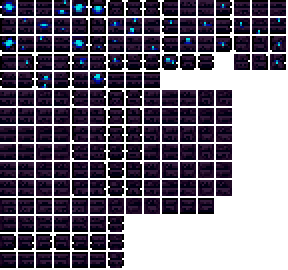
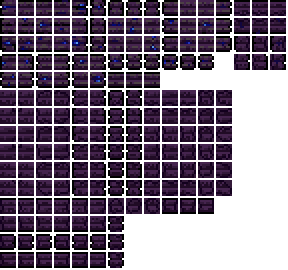
TeleportDoor

Changed region(s): [[0.0, 0.0, 1.0, 0.8593], [0.0, 0.9481, 0.4375, 1.0], [0.0, 0.8889, 0.4375, 0.9185]]

diff --git a/Sources/Modules/Myth/TheFirefly/Tiles/MothWorldDoor.cs b/Sources/Modules/Myth/TheFirefly/Tiles/MothWorldDoor.cs
@@ -9,6 +9,7 @@ public class MothWorldDoor : ModTile
 	{
 		Main.tileFrameImportant[Type] = true;
 		Main.tileLavaDeath[Type] = false;
+		Main.tileLighted[Type] = true;
 		TileObjectData.newTile.CopyFrom(TileObjectData.Style1x1);
 		TileObjectData.newTile.Height = 7;
 		TileObjectData.newTile.Width = 5;
@@ -29,9 +30,9 @@ public class MothWorldDoor : ModTile
 	}
 	public override void ModifyLight(int i, int j, ref float r, ref float g, ref float b)
 	{
-		r = 0.0f;
-		g = 0.6f;
-		b = 1.3f;
+		r = 0f;
+		g = 0f;
+		b = 0f;
 	}
 	public override void PostDraw(int i, int j, SpriteBatch spriteBatch)
 	{
@@ -59,7 +60,29 @@ public class MothWorldDoor : ModTile
 	{
 		return false;
 	}
-
+	public override void RandomUpdate(int i, int j)
+	{
+		if(DrawMagicArraySystem.ArrayPosition != Vector2.zeroVector)
+		{
+			float playerDistance = 2000;
+			foreach (Player player in Main.player)
+			{
+				if (player.active && !player.dead)
+				{
+					float distance = (player.Center - (new Vector2(i, j) * 16 + new Vector2(-24, -27))).Length();
+					if (distance < playerDistance)
+					{
+						playerDistance = distance;
+					}
+				}
+			}
+			if(playerDistance > 1800)
+			{
+				DrawMagicArraySystem.ArrayPosition = Vector2.zeroVector;
+			}
+		}
+		base.RandomUpdate(i, j);
+	}
 	public override void NearbyEffects(int i, int j, bool closer)
 	{
 		Player player = Main.LocalPlayer;
@@ -103,6 +126,7 @@ public class DrawMagicArraySystem : ModSystem
 	public static Vector2 ArrayPosition = Vector2.zeroVector;
 	public static void DrawMagicArray()
 	{
+
 		if (ArrayPosition == Vector2.zeroVector)
 		{
 			return;
@@ -114,7 +138,7 @@ public class DrawMagicArraySystem : ModSystem
 		{
 			if(player.active && !player.dead)
 			{
-				float distance = (player.Center - (ArrayPosition * 16 + new Vector2(-24, -32))).Length();
+				float distance = (player.Center - (ArrayPosition * 16 + new Vector2(-24, -27))).Length();
 				if (distance < playerDistance)
 				{
 					playerDistance = distance;
@@ -124,17 +148,10 @@ public class DrawMagicArraySystem : ModSystem
 		}
 		float mulColor = Math.Max((150 - playerDistance) / 150f, 0.25f);
 		c0 *= mulColor;
-		if (playerWhoAmI > -1)
-		{
-			if (Main.player[playerWhoAmI].controlUp)
-			{
-				c0 *= 2;
-			}
-		}
-		
 		float timer = (float)(Main.time * 0.003f);
-		Vector2 pos = ArrayPosition * 16 - Main.screenPosition + new Vector2(-24, -32);
+		Vector2 pos = ArrayPosition * 16 - Main.screenPosition + new Vector2(-24, -27);
 
+		Lighting.AddLight(pos + Main.screenPosition, 0, 1.2f * mulColor, 2.6f * mulColor);
 		Texture2D magicSeal = ModAsset.HiveCyberNoiseThicker.Value;
 		DrawTexCircle(26, 12, c0, pos, magicSeal, -timer);
 		DrawTexCircle(22, 12, c0, pos, magicSeal, timer);
@@ -158,6 +175,8 @@ public class DrawMagicArraySystem : ModSystem
 		DrawTexLine(Point4, Point5, c1, c1, magicSeal);
 		DrawTexLine(Point5, Point6, c1, c1, magicSeal);
 		DrawTexLine(Point6, Point4, c1, c1, magicSeal);
+
+	
 	}
 	public static void DrawTexLine(Vector2 StartPos, Vector2 EndPos, Color color1, Color color2, Texture2D tex)
 	{

diff --git a/Sources/Modules/Myth/TheFirefly/Tiles/LampLotus.cs b/Sources/Modules/Myth/TheFirefly/Tiles/LampLotus.cs
@@ -38,7 +38,7 @@ public class LampLotus : ModTile
 			{
 				tile2.TileType = (ushort)ModContent.TileType<LampLotus>();
 				tile2.HasTile = true;
-				tile2.TileFrameX = (short)(Main.rand.Next(8) * 28);
+				tile2.TileFrameX = (short)(Main.rand.Next(8) * 16);
 			}
 		}
 	}
@@ -111,8 +111,8 @@ public class LampLotus : ModTile
 			Texture2D texflowerGlow = ModAsset.LampLotusGlow.Value;
 			var tsp = new TileSpin();
 			tsp.Update(i, j);
-			tsp.DrawReed(i, j, length, texflower, texflower, new Rectangle(tile.TileFrameX, 0, 28, 34), new Rectangle(tile.TileFrameX, 36, 28, 16), new Vector2(14, 34), new Vector2(14, 16), 8, 16);
-			tsp.DrawReed(i, j, length, texflower, texflowerGlow, new Rectangle(tile.TileFrameX, 0, 28, 34), new Rectangle(tile.TileFrameX, 36, 28, 16), new Vector2(14, 34), new Vector2(14, 16), 8, 16, 1, true, new Color(0, 155, 255, 0));
+			tsp.DrawReed(i, j, length, texflower, texflower, new Rectangle(tile.TileFrameX / 16 * 28, 0, 28, 34), new Rectangle(tile.TileFrameX / 16 * 28, 36, 28, 16), new Vector2(14, 34), new Vector2(14, 16), 8, 16);
+			tsp.DrawReed(i, j, length, texflower, texflowerGlow, new Rectangle(tile.TileFrameX / 16 * 28, 0, 28, 34), new Rectangle(tile.TileFrameX / 16 * 28, 36, 28, 16), new Vector2(14, 34), new Vector2(14, 16), 8, 16, 1, true, new Color(0, 155, 255, 0));
 		}
 		return false;
 	}
